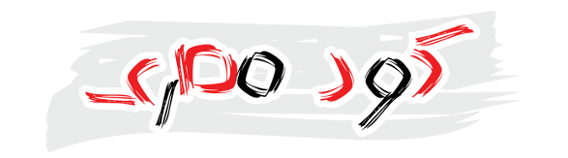
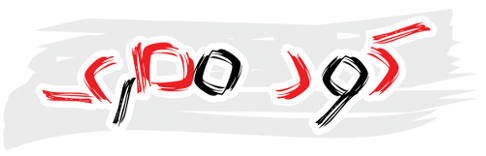
align bg header

Changed region(s): [[0.0617, 0.2564, 0.5247, 0.7949], [0.5556, 0.1538, 0.8951, 0.8205]]

diff --git a/main/c2g/static/css/core/body.css b/main/c2g/static/css/core/body.css
@@ -1812,10 +1812,20 @@ hr {
 
 a.private_btn{
     background: url(http://www.codemasry.com/static/graphics/core/2.png) no-repeat;
-    width: 375px;
+    width: 435px;
+    margin-left: 60px
     height: 100px;
     position: absolute;
     top: 200px;
+}
+
+.row-fluid.hero-header{
+  background:none; 
+  background-color: rgb(148, 38, 38); 
+}
+
+.row-fluid.hero-header .container{
+  background: url("http://www.codemasry.com/static/graphics/core/codemasry-simple.png") no-repeat;
 }
 
 .days_to_go_header{

diff --git a/ar_style.css b/ar_style.css
@@ -32,9 +32,8 @@ margin-bottom: 0px;
 	margin-top: 10px;
 }
 .row-fluid.hero-header{
-  background:url("http://www.codemasry.com/static/graphics/core/codemasry-simple.png")no-repeat; 
+  background:none; 
   background-color: rgb(148, 38, 38); 
-  background-position-x: 100px;
 }
 
 .row-fluid.hero-header .container .row.hero{
